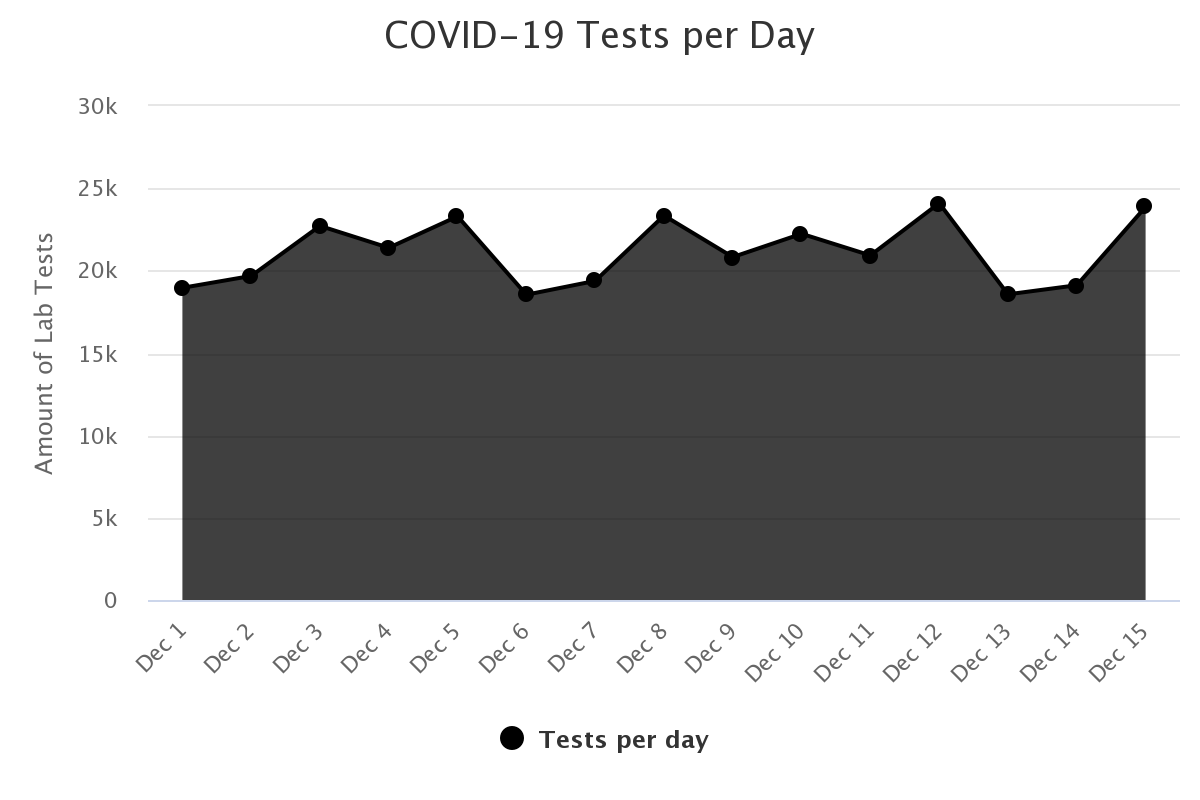
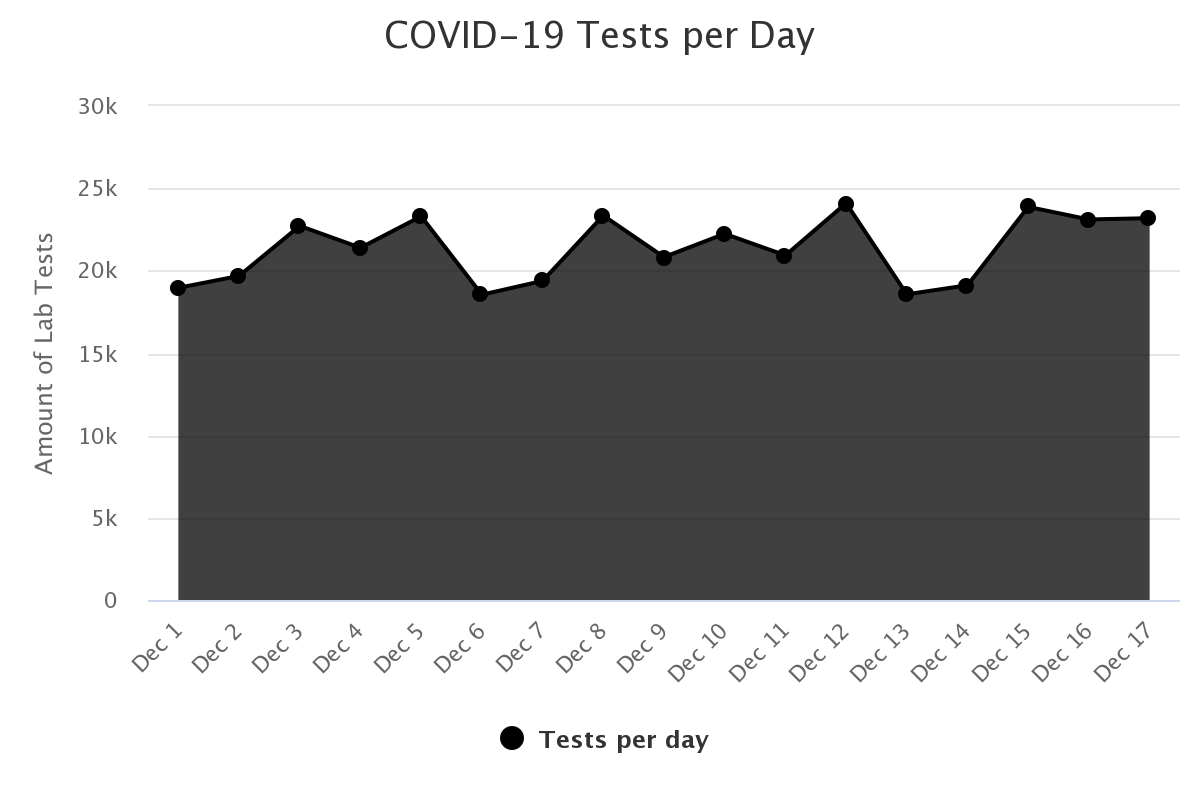
twelth commit

Changed region(s): [[0.1233, 0.25, 0.9867, 0.75], [0.555, 0.7812, 0.9558, 0.8438], [0.0925, 0.7812, 0.555, 0.8438]]

diff --git a/index.html b/index.html
@@ -2,7 +2,7 @@
 <html lang="en">
 <head>
     <title>COVID-19 Info Web</title>
-    <link rel="shortcut icon" href="images1/shortcut_icon.png">
+    <link rel="shortcut icon" href="https://covid-19infoweb.netlify.app/images1/shortcut_icon.png">
   <meta name="viewport" content="width=device-width, initial-scale=1">
   <meta charset="utf-8">
    
@@ -25,6 +25,7 @@
     <link rel="stylesheet" type="text/css" href="css/style.css">
 
 <meta name="title" content="COVID-19 Info Web">
+<meta name="image" content="https://covid-19infoweb.netlify.app/images1/icon.png">
 <meta name="language" content="English">
 <meta name="author" content="Min Khant Kyaw">
 <meta name="revisit-after" content="3 days">
@@ -34,7 +35,7 @@
 <meta name="keywords" content="COVID-19,Info,Myanmar">
 <meta name="description" content="This is the website where you can find COVID-19 data, and information related to Myanmar (Burma)">
 <meta property="og:image" content="https://covid-19infoweb.netlify.app/images1/icon.png" />
-<meta property="og:description" content="Last Updated on December 15, 8:00 PM" />
+<meta property="og:description" content="Last Updated on December 17, 8:00 PM" />
 <meta property="og:title" content="COVID-19 Info Website" />
 <meta property="og:url" content="https://covid-19infoweb.netlify.app/" />
 <meta property="og:type"          content="informative website" />
@@ -59,7 +60,7 @@
 <div id="fb-root"></div>
 <nav class="navbar  fixed-top navbar-expand-lg navbar-fixed-top navbar-light bg-light" style="background-color: #e3f2fd!important; ">
   <a class="navbar-brand" href="index.html" style="font-weight: 500;">
-    <img src="images1/main_logo.png" alt="main logo of this website">
+    <img src="https://covid-19infoweb.netlify.app/images1/main_logo.png" alt="main logo of this website">
     COVID-19 Info
   </a>
   <button class="navbar-toggler hidden-lg-up" type="button" data-toggle="collapse" data-target="#navbarSupportedContent" aria-controls="navbarSupportedContent" aria-expanded="false" 
@@ -134,7 +135,7 @@
   <div class="card-body">
     <h5 class="card-title">Total Lab Tests</h5>
     <p class="card-text" style="font-size: 18px;
-    font-weight: bold; color: #ffffff;">1,480,740</p>
+    font-weight: bold; color: #ffffff;">1,527,037</p>
   </div>
 </div>
 </div>
@@ -143,7 +144,7 @@
   <div class="card-body">
     <h5 class="card-title">Confirmed Cases</h5>
     <p class="card-text" style="font-size: 18px;
-    font-weight: bold; color: #ffffff;">110,667</p>
+    font-weight: bold; color: #ffffff;">113,082</p>
   </div>
 </div>
   </div>
@@ -152,7 +153,7 @@
   <div class="card-body">
     <h5 class="card-title">Recovered Cases</h5>
     <p class="card-text" style="font-size: 18px;
-    font-weight: bold; color: #ffffff;">89,418</p>
+    font-weight: bold; color: #ffffff;">91,537</p>
   </div>
 </div>
 </div>
@@ -162,7 +163,7 @@
   <div class="card-body">
     <h5 class="card-title">Official Death Toll</h5>
     <p class="card-text" style="font-size: 18px;
-    font-weight: bold; color: #ffffff;">2,319</p>
+    font-weight: bold; color: #ffffff;">2,377</p>
   </div>
 </div>
  </div>
@@ -282,77 +283,77 @@
     <tr>
       <td>1.</td>
       <td>Yangon</td>
-      <td>76,679</td>
+      <td>77,748</td>
     </tr>
     <tr>
       <td>2.</td>
       <td>Mandalay</td>
-      <td>9,839</td>
+      <td>10,537</td>
     </tr>
     <tr>
       <td>3.</td>
       <td>Bago</td>
-      <td>6,506</td>
+      <td>6,652</td>
     </tr>
     <tr>
       <td>4.</td>
       <td>Rakhine</td>
-      <td>4,012</td>
+      <td>4,025</td>
     </tr>
     <tr>
       <td>5.</td>
       <td>Ayeyarwaddy</td>
-      <td>3,926</td>
+      <td>4,021</td>
     </tr>
     <tr>
       <td>6.</td>
       <td>Magaway</td>
-      <td>2,156</td>
+      <td>2,256</td>
     </tr>
     <tr>
       <td>7.</td>
       <td>Mon</td>
-      <td>1,920</td>
+      <td>1,999</td>
     </tr>
     <tr>
       <td>8.</td>
       <td>Sagaing</td>
-      <td>1,345</td>
+      <td>1,424</td>
     </tr>
     <tr>
       <td>9.</td>
       <td>Kayin</td>
-      <td>892</td>
+      <td>898</td>
     </tr>
     <tr>
       <td>10.</td>
       <td>Shan</td>
-      <td>629</td>
+      <td>650</td>
     </tr>
     <tr>
       <td>11.</td>
       <td>Naypyidaw</td>
-      <td>536</td>
+      <td>579</td>
     </tr>
     <tr>
       <td>12.</td>
       <td>Thanintharyi</td>
-      <td>480</td>
+      <td>487</td>
     </tr>
     <tr>
       <td>13.</td>
       <td>Kachin</td>
-      <td>409</td>
+      <td>437</td>
     </tr>
     <tr>
       <td>14.</td>
       <td>Chin</td>
-      <td>152</td>
+      <td>155</td>
     </tr>
      <tr>
       <td>15.</td>
       <td>Kayah</td>
-      <td>31</td>
+      <td>32</td>
     </tr>
 
   </tbody>
@@ -375,77 +376,77 @@
     <tr>
       <td>1.</td>
       <td>Mingalardon</td>
-      <td>5,317</td>
+      <td>5,430</td>
     </tr>
     <tr>
       <td>2.</td>
       <td>NorthOkkalar</td>
-      <td>5,258</td>
+      <td>5,327</td>
     </tr>
     <tr>
       <td>3.</td>
       <td>HlaingTharYar</td>
-      <td>4,388</td>
+      <td>4,426</td>
     </tr>
     <tr>
       <td>4.</td>
       <td>Insein</td>
-      <td>4,148</td>
+      <td>4,203</td>
     </tr>
     <tr>
       <td>5.</td>
       <td>Thingangyun</td>
-      <td>4,025</td>
+      <td>4,079</td>
     </tr>
     <tr>
       <td>6.</td>
       <td>Mayangone</td>
-      <td>3,496</td>
+      <td>3,534</td>
     </tr>
       <tr>
       <td>7.</td>
       <td>ShwePyiThar</td>
-      <td>3,411</td>
+      <td>3,480</td>
     </tr>
     <tr>
       <td>8.</td>
       <td>SouthDagon</td>
-      <td>2,727</td>
+      <td>2,786</td>
     </tr>
     <tr>
       <td>9.</td>
       <td>Hlaing</td>
-      <td>2,710</td>
+      <td>2,763</td>
     </tr>
     <tr>
       <td>10.</td>
       <td>Tamwe</td>
-      <td>2,680</td>
-    </tr>
-     <tr>
-      <td>11.</td>
-      <td>Thanlyin</td>
-      <td>2,636</td>
+      <td>2,696</td>
     </tr>
     <tr>
-      <td>12.</td>
+      <td>11.</td>
       <td>SouthOkkalar</td>
-      <td>2,634</td>
+      <td>2,674</td>
+    </tr>
+     <tr>
+      <td>12.</td>
+      <td>Thanlyin</td>
+      <td>2,670</td>
     </tr>
     <tr>
       <td>13.</td>
-      <td>Tharketa</td>
-      <td>2,183</td>
+      <td>Kamayut</td>
+      <td>2,221</td>
     </tr>
     <tr>
       <td>14.</td>
-      <td>Kamayut</td>
-      <td>2,182</td>
+      <td>Tharketa</td>
+      <td>2,208</td>
     </tr>
     <tr>
       <td>15.</td>
       <td>NorthDagon</td>
-      <td>1,955</td>
+      <td>1,987</td>
     </tr>
   </tbody>
 </table>

diff --git a/InfoPage.html b/InfoPage.html
@@ -26,7 +26,7 @@
 <meta name="keywords" content="COVID-19,Info,ကိုဗစ်">
 <meta name="description" style="font-family:Unicode;" content="ဤ ၀က်ဘ်ဆိုက်တွင် မြန်မာနိုင်ငံနှင့်သက်ဆိုင်သော COVID-19 အချက်အလက်များနှင့် သတင်းအချက်အလက်များကို ရှာဖွေဖတ်ရှု့နိုင်ပါသည်။">
 <meta property="og:image" content="https://covid-19infoweb.netlify.app/images1/icon.png"/>
-<meta property="og:description" style="font-family:Unicode;" content="ဒီဇင်ဘာ ၁၄ ရက်၊ ည ၈:၀၀ ထုတ်ပြန်သောသတင်း" />
+<meta property="og:description" style="font-family:Unicode;" content="ဒီဇင်ဘာ ၁၇ ရက်၊ ည ၈:၀၀ ထုတ်ပြန်သောသတင်း" />
 <meta property="og:title" style="font-family:Unicode;" content="မြန်မာနိုင်ငံတွင်ကိုဗစ်ဖြစ်ပွားနေမှုအခြေအနေ" />
 <meta property="og:url" content="https://covid-19infoweb.netlify.app/" />
 <meta property="og:type"          content="informative website" />
@@ -116,7 +116,7 @@
             <div class="col-md-12 col-sm-12">
               <hr style="margin-bottom: 10px; background: #3F51B5">
  <marquee bgcolor="#3F51B5"> 
-  <div class="running" style='font-family:Unicode;font-size: 20px; color: #FFFFFF; font-weight: 600px'> ကျန်းမာရေးနှင့်အားကစားဝန်ကြီးဌာန၏ ဒီဇင်ဘာ ၁၄ ရက်၊ ည ၈:၀၀ တွင် ထုတ်ပြန်သောသတင်းအရ မြန်မာနိုင်ငံတွင် စစ်ဆေးပြီးသည့်ဓာတ်ခွဲနမူနာစုစုပေါင်း ၁,၄၅၆,၈၆၆ ခု၊ ဓာတ်ခွဲအတည်ပြုလူနာစုစုပေါင်း ၁၀၉,၅၁၂ ဦး၊ ပြန်လည်ကောင်းမွန်လာသူစုစုပေါင်း ၈၈,၁၃၁ ဦး၊ နှင့် သေဆုံးလူနာစုစုပေါင်း ၂,၂၉၂ ဦး ရှိပါသည်။ ။
+  <div class="running" style='font-family:Unicode;font-size: 20px; color: #FFFFFF; font-weight: 600px'> ကျန်းမာရေးနှင့်အားကစားဝန်ကြီးဌာန၏ ဒီဇင်ဘာ ၁၇ ရက်၊ ည ၈:၀၀ တွင် ထုတ်ပြန်သောသတင်းအရ မြန်မာနိုင်ငံတွင် စစ်ဆေးပြီးသည့်ဓာတ်ခွဲနမူနာစုစုပေါင်း ၁,၅၂၇,၀၃၇ ခု၊ ဓာတ်ခွဲအတည်ပြုလူနာစုစုပေါင်း ၁၁၃,၀၈၂ ဦး၊ ပြန်လည်ကောင်းမွန်လာသူစုစုပေါင်း ၉၁,၅၃၇ ဦး၊ နှင့် သေဆုံးလူနာစုစုပေါင်း ၂,၃၇၇ ဦး ရှိပါသည်။ ။
   </div>
     </marquee>
  <hr style=" margin-top: 4px; background:#3F51B5">

diff --git a/js/chart.js b/js/chart.js
@@ -1,5 +1,5 @@
 
-  var xAxisCatEnco = JSON.parse(`["Dec 1","Dec 2","Dec 3","Dec 4","Dec 5","Dec 6","Dec 7","Dec 8","Dec 9","Dec 10","Dec 11","Dec 12","Dec 13","Dec 14","Dec 15"]`);
+  var xAxisCatEnco = JSON.parse(`["Dec 1","Dec 2","Dec 3","Dec 4","Dec 5","Dec 6","Dec 7","Dec 8","Dec 9","Dec 10","Dec 11","Dec 12","Dec 13","Dec 14","Dec 15","Dec 16","Dec 17"]`);
         
   Highcharts.chart('daily_analytics_chart', {
   chart: {
@@ -21,7 +21,7 @@
             },
   series: [{
     name: 'Tests per day',
-    data: [18959,19680,22719,21390,23300,18541,19379,23348,20826,22241,20929,24099,18564,19115,23874],
+    data: [18959,19680,22719,21390,23300,18541,19379,23348,20826,22241,20929,24099,18564,19115,23874,23109,23188],
     color: "black"
   }]
 });
@@ -45,15 +45,15 @@
             },
   series: [{
     name: 'Confirmed Cases',
-    data: [1476,1411,1418,1502,1527,1108,1276,1308,1427,1321,1376,1352,1127,1170,1155]
+    data: [1476,1411,1418,1502,1527,1108,1276,1308,1427,1321,1376,1352,1127,1170,1155,1233,1182]
   }, {
     name: 'Recovered Cases',
-    data: [1187,1258,1147,1225,1409,1254,1604,1486,989,1098,1525,1068,1389,1336,1287],
+    data: [1187,1258,1147,1225,1409,1254,1604,1486,989,1098,1525,1068,1389,1336,1287,1035,1084],
     color: "#66a832"
 
   }, {
     name: 'Death Toll',
-    data: [31,26,30,31,22,29,22,19,23,27,19,25,23,24,27],
+    data: [31,26,30,31,22,29,22,19,23,27,19,25,23,24,27,27,31],
     color: "red"
   }]
 });

diff --git a/js/map.js b/js/map.js
@@ -5,7 +5,7 @@ var data = [
     ['mm-tn', 402],
     ['mm-np', 426],
     ['mm-mo', 1539],
-    ['mm-ra', 3744],
+    ['mm-ra', 4012],
     ['mm-ay', 3092],
     ['mm-ch', 115],
     ['mm-mg', 1592],
@@ -14,9 +14,9 @@ var data = [
     ['mm-kn', 702],
     ['mm-kc', 235],
     ['mm-sa', 893],
-    ['mm-ba', 5507],
-    ['mm-md', 6505],
-    ['mm-ya', 68377],
+    ['mm-ba', 6506],
+    ['mm-md', 9839],
+    ['mm-ya', 76679],
 
 ];
 
